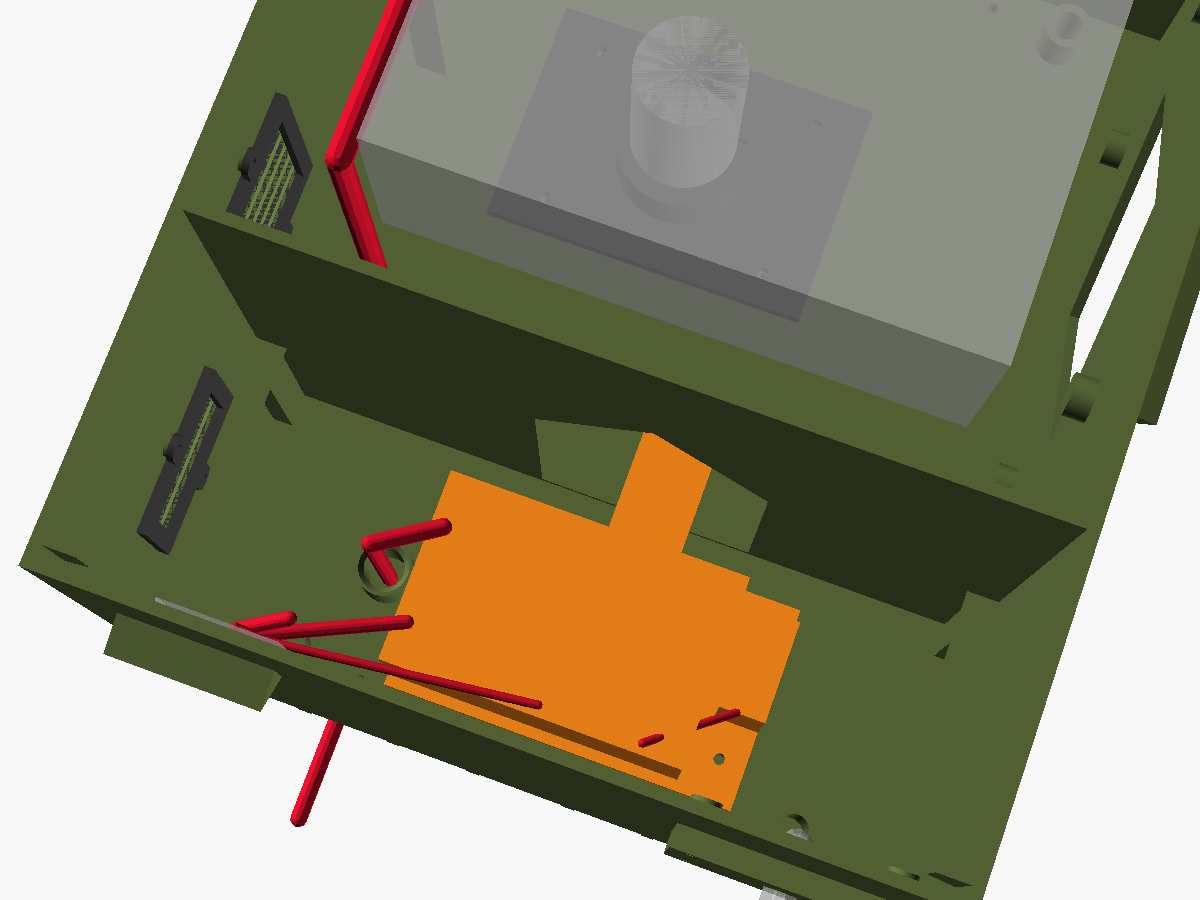
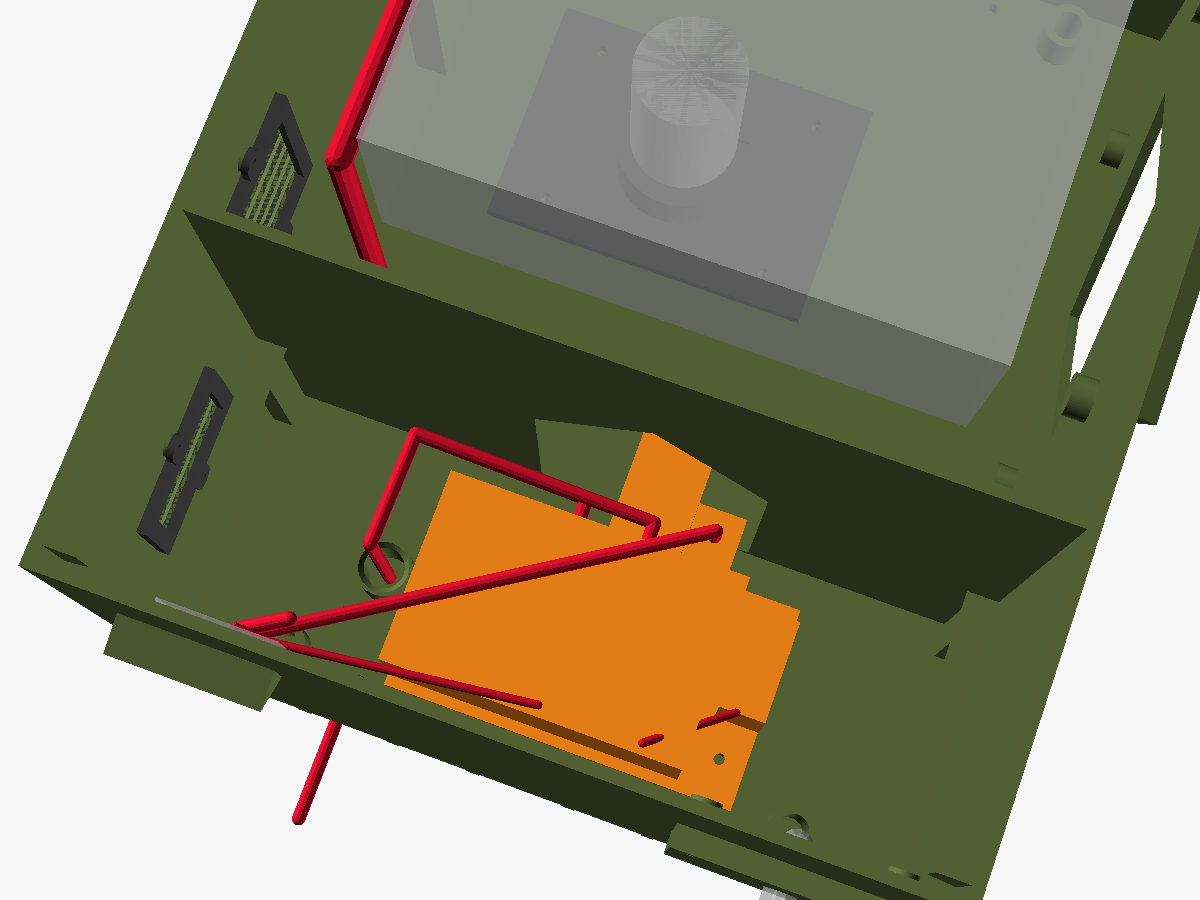
DigiAMP+ jack and speaker terminals face the divider: leg 2 via a right-angle adapter
From the Raspberry Pi product photo: the barrel jack and both terminal
blocks sit on the HAT's edge opposite the GPIO header, about 15 mm from
the divider. amp_dc_plug keep-out (a right-angle adapter turned up) with
ampdc-<sled> clash pairs; pi_wiring routes leg 2 and the speaker wire from
there. ASSEMBLY, WIRING, BOM (adapter quantity 2 from the 5-pack) and
DESIGN_LOG updated; step 10 re-rendered.

Claude-Session: https://claude.ai/code/session_01GgR7AcQnbC76E9Z5qosyiT

Changed region(s): [[0.2158, 0.4667, 0.6167, 0.7156], [0.2467, 0.84, 0.2775, 0.9022]]

diff --git a/CLAUDE.md b/CLAUDE.md
@@ -57,7 +57,7 @@ Print orientation is baked into the `part` dispatch at the bottom (lid flipped r
 - Materials (owner, 2026-10-15): ASA in camo green (Inland ASA Army Green) for everything seen from outside (`base` tiles, `lid` tiles, `hatch_cover`, `cord_clamp`, plus `fit_coupon`), black PETG (Inland PETG Black) for everything inside (`pedestal`, `window_frame`, `sled`, the three screen caps, `ir_holder`, `power_shelf`). No flame-retardant filament (owner, 2026-10-15). PLA only for prototypes. Black inside also cuts light glow. Print small critical pieces first (pedestal, window frame, hatch cover) before the big tiles. Orient so load runs within layers.
 - Prefer 45 deg gussets and slopes so nothing needs supports (ledges, hoods, louvers, the diamond hatch, the gabled pass-through). The base prints upright, so the floor stands on `foot_ribs` plus a rib under each side wall (`ribs_x`; bridges <= `max_bridge`, asserted) the floor holes (drains, chimney, stake bores) start `hole_skin` layers up so the floor's first bridge layer is solid (punched out after printing), and the window, which has to stay inside the pane, gets snap-out ribs with a `layer_h` gap; the pane rebate has a 45 deg ceiling. Anything new with a horizontal top edge over ~30 mm needs the same treatment.
 - Bed fit is asserted (`bed`, `fits_bed`): a parameter change that pushes a tile past the bed fails every export and check, with the tile's size in the message. The cord opening and clamp (`cord_x`, `cord_dz`: clamp inside the rear wall's left edge, opening inside the left wall, lower screws clear of the shelf, clamp under the lid skirt), `cord_d` against the opening and clamp channel, and the brick (clear of the PIR slot, no deeper than the shelf, under the lid skirt) are asserted too.
-- Keep interference checks green after any geometry change. If you add a part that mates with another, add a pair to `scripts/check_clash.sh`. Cables and plugs need keep-outs as well (`projector_ports`, `projector_side_ports`, `pi_hdmi_plug`): the script only sees what is modelled. The script measures the intersection volume, so parts that merely touch pass ("contact"); anything over 0.5 mm3 is a clash.
+- Keep interference checks green after any geometry change. If you add a part that mates with another, add a pair to `scripts/check_clash.sh`. Cables and plugs need keep-outs as well (`projector_ports`, `projector_side_ports`, `pi_hdmi_plug`, `amp_dc_plug`): the script only sees what is modelled. The script measures the intersection volume, so parts that merely touch pass ("contact"); anything over 0.5 mm3 is a clash.
 - `%` ghosts (projector, ball head) only show in preview, never in exports.
 - `docs/measurements.yaml` holds no defaults: `scripts/check_measurements.py` reads them from the SCAD by key or `param:`. Renaming a parameter means renaming its YAML key (or `param:`) too; run the script and check it still shows a model value.
 - `--camera` needs all seven numbers; `--viewall` produced tiny renders, so set the distance by hand.
@@ -84,7 +84,7 @@ Print orientation is baked into the `part` dispatch at the bottom (lid flipped r
 1. Projector: 165 x 130 x 66 mm. Depth is measured (calipers); width and height are the manual's 6.5 x 2.6 in. Lens height and offset (`lens_z` 33, `lens_x` -20) and the 1/4-20 socket position (`mount_x` 19, `mount_y` -4) are scaled off photos. Port and vent positions come from photos (about +/-2 mm; confirm with calipers): I/O strip on the right face, top 18 mm, 41-118 mm behind the front, HDMI at 56 mm (`hdmi_y`, `side_port_*`); DC jack in the rear top-right corner (`dc_jack`; barrel 5.5 x 2.5 mm per the owner, who also verified the DigiAMP+'s barrel jack is the same size, 2026-10-12); intake grille 40 x 40, 15 from the right and top, on the rear; exhaust slots on the right face, first 40 mm; IR receiver on the front face above the Tkisko logo near X +35, Z 50 (`ir_x`, `ir_z`). The second rear grille is a speaker, not an air path. Louver opening sizes (`air_margin*`, `exh_y`) are owner measurements.
 2. Projector power control is HDMI-CEC from the Pi (fallback: HDMI output off). The projector's EDID has been read on a Mac (2026-10-05, see `docs/BRINGUP.md` "Verified so far"): generic STK "S2-TEK TV" block, 1080p60 native, 8-bit, 150 MHz TMDS, DPMS standby flagged, HDMI vendor block with CEC physical address 2.0.0.0. That proves a real HDMI input, not CEC; whether the projector answers CEC is still unknown until bring-up row 9 on the Pi.
 3. The brick (Auplf XGM-2406, 24 V 6 A 144 W, 5.5 x 2.5 mm, ASIN B0H32DNLP3) is chosen (2026-10-12) but not bought: `brick` is the listing's 6.7 x 2.8 x 1.6 in, still to be calipered; the AC inlet type and input current are unknown; the listing claims FCC/CE/RoHS only (no UL/ETL) and mentions a cooling fan. The cord's jacket (`cord_d` 9) and connector size are guesses. The stock 21 V wall-wart is retired from the case.
-4. PIR dome diameter and hole spacing (`pir_dome_d` 23.5, `pir_hole_sp` 28.7) and whether the DigiAMP+'s unpopulated encoder/IR header pins (GPIO 17, 23-25, 27) really float; GPIO 22 is its mute line, so the IR LED sits on GPIO 16. The sled fan's heatsink height under the HAT, its noise and its effect (BRINGUP row 13a). Stack heights per sled (the DigiAMP+ brief gives no height; `pi_stack_h` 40, `pi5_stack_h` 50 with Active Cooler, `zero_stack_h` 30, `zero_hat_z` 13 are guesses), DigiAMP+ support and power on Pi 5 and Zero 2 W, and whether the projector runs on 24 V (row 4a).
+4. PIR dome diameter and hole spacing (`pir_dome_d` 23.5, `pir_hole_sp` 28.7) and whether the DigiAMP+'s unpopulated encoder/IR header pins (GPIO 17, 23-25, 27) really float; GPIO 22 is its mute line, so the IR LED sits on GPIO 16. The sled fan's heatsink height under the HAT, its noise and its effect (BRINGUP row 13a). Stack heights per sled (the DigiAMP+ brief gives no height; `pi_stack_h` 40, `pi5_stack_h` 50 with Active Cooler, `zero_stack_h` 30, `zero_hat_z` 13 are guesses; so is the DigiAMP+ jack's height, `amp_jack_dz` 8: its jack and speaker terminals face the divider, so leg 2 takes a right-angle adapter), DigiAMP+ support and power on Pi 5 and Zero 2 W, and whether the projector runs on 24 V (row 4a).
 5. Ball head: UTEBIT 20 mm chosen (2026-10-06); `ball_head_h` 52 and `pivot_h` 32 are scaled off the vendor drawing, so caliper the real head (platform height, ball centre, lock knob position). Throw ratio (0.95, derived from the manual's image sizes), lens offset (0), lens height, are all unmeasured; the port positions are photo-derived (item 1), and the HDMI cable's route to the divider at full aim and the LED seat in `ir_holder` are unchecked.
 6. Coupon (2026-10-15): every fit passes as modelled: the M5 keyhole and insert (`stud_insert_d` 6.4), the M3 insert (`m3_insert_d` 4.0), the 1/4-20 insert (`insert_d` 8.2), the M3/M2.5/M2 pilots, the pane slot and the hot-shoe T-slot (the UTEBIT adapter holds with its ring tight). Still untested: ASA shrink (the 118 mm strip's length is not entered yet), and the pane rebate in the real base (sized for a 3.5 x 5 in, about 2 mm frame-glazing pane; `pane_w`/`pane_h` drive the window). The hot-shoe receiver (`hot_shoe_cut()`, `shoe_*`, ISO 518 numbers) is now the pedestal's mount (`ped_mount` "shoe", 2026-10-15), replacing the stud and 1/4-20 insert; `ped_top` dropped 30 -> 25 to make room for the adapter ring (`shoe_rise` 5, a guess: caliper it), so the projector height is unchanged. Untested: the slot in PETG (the coupon was ASA) and the ring height.
 7. Base seam collars and screws, the lid scarf joint (needs `lid_front`) and the gasket land are unprinted. `cord_clamp`, `lid_rear` and `base_rear` are printed but not fitted together; the clamp and `base_rear` were printed before BRINGUP row 4 set `cord_d` (9, a guess) and the brick, so they need reprinting if those change.

diff --git a/docs/DESIGN_LOG.md b/docs/DESIGN_LOG.md
@@ -99,3 +99,4 @@ Chronological record of decisions, including dead ends, so the reasoning survive
 - **Pi sled fan (2026-10-15).** Running the setup outside the case on a warm day, the Pi tripped its over-temperature protection (owner), so the Pi gets its own fan; the case stays fanless. The DigiAMP+ sits over the SoC, so a fan on top of the HAT would barely reach the chip; the fan stands at the board's SD-card end instead and blows into the gap between the Pi and the HAT, over a stick-on heatsink. That end is the only free edge: HDMI and power are on one long edge, the GPIO header on the other, USB/LAN on the far end. A 30 x 30 x 10 mm axial fan fits on an upright plate inside the sled's existing footprint (plate at X -60, the sled's edge), with its centre 8 mm in front of the Pi's centre so the thumbscrew stays reachable. The plate is plain (no gussets: the fan screwed to it is the load, about 10 g), with a diamond intake so it prints standing without supports. Only the Pi 3 and Pi 4 sleds get it: the Pi 5 already has its Active Cooler, and on the Zero 2 W sled the board's centre lines up with the thumbscrew. Control is the kernel's `gpio-fan` overlay (GPIO 26, pin 37, through a BC337 because a 0.2 A fan is far past a GPIO's 16 mA; 1N5819 across the fan), not the service, so it keeps running if the service crashes; the service only reports its state. GPIO 26 is free on the DigiAMP+ and not on its encoder/IR headers. On/off rather than PWM keeps PWM0 free for `pwm-ir-tx`. Chosen fan has no LED, so nothing glows through the Pi vent at night. Open: heatsink height under the HAT, whether the fan is quiet enough, and whether one Pi-zone louver lets the fan's heat out (BRINGUP rows 13a and 20). Also fixed in passing: `tools/gen-default.mjs` still looked for the old "Fixed" group, so the file-only header in `videofx.default` was lost on regeneration.
 - **Slicing script; base and lid tiles at 0.30 DRAFT (2026-10-21).** `make slice` (`scripts/slice.sh`, with `scripts/prusa_profile.py` flattening the stock presets so any PrusaSlicer runs it) replaces the hand-run CLI recipe. Re-sliced with the ASA tile settings from the first `base` print, `base_front` came to 51 h and the whole set to 108 h, with Halloween ten days out, so the owner moved both base tiles to 0.30mm DRAFT (`layer_h` 0.3, the gap over the window's snap-out ribs): `base_front` 35 h 44 m, `base_rear` 15 h 56 m, about 84 h in all. The lid tiles followed (owner, same day): `lid_front` 9 h 57 m, `lid_rear` 6 h 1 m, about 80 h in all; small parts stay at 0.20 SPEED. Risk: coarser layers on the window rebate's 45 deg ceiling, the louver slopes and the lid's 45 deg scarf seam; the walls stay solid (7 perimeters).
 - **PIR hood raised (v0.14, 2026-10-21).** Modelling the PIR for the assembly pictures (`pir_sensor()`, a new `pir` pair in `check_clash.sh`) showed the hood's 45 deg underside started about 6 mm below the top of the dome, and the dome hole stopped 1 mm into the hood: a dome standing proud of the wall could not pass through. The hood now starts 1 mm above the dome (`pir_dome_d/2 + hood_d + 1` over the dome centre, about 7 mm higher) and an assert keeps it under the lid skirt. Only `base_rear` changes; the copy already printed has the old hood, so reprint it (it was due a reprint with `slicer/asa_tiles.ini` anyway) or file the hood's underside back. `pir_dome_h` (9, the dome radius less the wall) and `pir_board` are guesses for the ghost and the check.
+- **DigiAMP+ jack faces the divider (2026-10-21).** The Raspberry Pi product photo (owner) puts the DigiAMP+'s barrel jack (about 13 mm from the pin-1 end, `amp_jack_x`) and both speaker terminal blocks (`amp_spk_x`) on the HAT's edge opposite the GPIO header, which in this case faces the divider about 15 mm away. A straight barrel plug with its strain relief is about 35 mm, so it would stand out through the pass-through into the rear gap; leg 2 takes a right-angle adapter turned up instead (a second one from the 5-pack already ordered), with an `amp_dc_plug` keep-out and `ampdc-<sled>` pairs in `check_clash.sh` (clear of the divider, HDMI plug, fan, shelf and the projector at full tilt on every sled). The jack's height under the stack top (`amp_jack_dz` 8) is a guess. The speaker wire runs from those terminals round the Pi's USB end to the chimney.

diff --git a/docs/BOM.md b/docs/BOM.md
@@ -42,7 +42,7 @@ Amazon cart placed or about to be: 12 SKUs, $145.32 with tax (checkout PDF). Row
 | Buck converter to 21 V, at least 3.5 A out, 30 V in or more | 0-1 | Only if BRINGUP row 4a fails (the projector cannot take 24 V). Meter its output before it meets the projector | Not chosen; pick after the test |
 | 2 mm foam gasket for the cord clamp | 1 | Same foam tape as the lid rim | See the foam tape row |
 | M3 x 16 self-tapping | 4 | Cord clamp into its bosses: the stack is 6 (clamp) + 2 (foam) + 3 (wall) = 11 mm to the inner wall face, plus the 5 mm boss, and the pilot ends at the boss end, so about 5 mm engages. Boss depth caps engagement at 5 mm; if BRINGUP row 17a fails, raise `cord_boss` once the real brick is measured | Same Mikniri assortment as the pedestal (check it has 16 mm; otherwise buy M3 x 16 separately) |
-| Right-angle DC barrel adapter, 5.5 x 2.5 mm male to 5.5 x 2.5 mm female | 1 | The projector's jack is 5.5 mm OD x 2.5 mm ID (owner, 2026-10-06), so the stock plug is the same size. The male end goes into the jack (stands out about 15 mm, `port_depth`) and the stock plug or its stub goes into the elbow's female end, so the stock cable's 45 mm bend runs along the rear face. A straight plug would need about 45 mm behind the rear face, which the rear tile can't take. Do not use the 2.1 mm variants **Ordered** (5-pack, $8.99). | [Amazon: GINTOOYUN 5.5 x 2.5 mm male-to-female, 5-pack](https://www.amazon.com/dp/B0BQGM4NBS) |
+| Right-angle DC barrel adapter, 5.5 x 2.5 mm male to 5.5 x 2.5 mm female | 2 (one 5-pack) | One for the DigiAMP+: its jack faces the divider about 15 mm away, so leg 2 goes in turned up (`amp_dc_plug`). The projector's jack is 5.5 mm OD x 2.5 mm ID (owner, 2026-10-06), so the stock plug is the same size. The male end goes into the jack (stands out about 15 mm, `port_depth`) and the stock plug or its stub goes into the elbow's female end, so the stock cable's 45 mm bend runs along the rear face. A straight plug would need about 45 mm behind the rear face, which the rear tile can't take. Do not use the 2.1 mm variants **Ordered** (5-pack, $8.99). | [Amazon: GINTOOYUN 5.5 x 2.5 mm male-to-female, 5-pack](https://www.amazon.com/dp/B0BQGM4NBS) |
 | Velcro strap, 20 mm | 1-2 | Through the shelf slots, round the brick | [Micro Center: VELCRO One-Wrap roll, 3/4 in x 4 ft](https://www.microcenter.com/product/657584/velcro-90302-one-wrap-roll-4%e2%80%99-x-075-black-%281-roll%29?storeid=195) |
 | Wire: 18 AWG (relay fallback only), 24 AWG | a few metres | | Micro Center: [18 AWG hook-up, 25 ft](https://www.microcenter.com/product/689131/leo-sales-ltd-hook-up-wire-300vhu-18-gauge-ul1007-copper-25ft?storeid=195), [22 AWG stranded, 25 ft](https://www.microcenter.com/product/689133/leo-sales-ltd-wire-stranded-22-gauge-300v-orange-25-ft?storeid=195). Amazon: [20 AWG silicone kit](https://www.amazon.com/dp/B073RDG2J6), [24 AWG silicone kit](https://www.amazon.com/dp/B073RD76QD) |
 | 16 AWG speaker wire | to suit | | [Amazon: Amazon Basics 16 AWG, 50 ft](https://www.amazon.com/dp/B006LW0WDQ) (Micro Center sells 16 AWG only by the 500 ft spool) |

diff --git a/docs/ASSEMBLY.md b/docs/ASSEMBLY.md
@@ -92,7 +92,7 @@ Note: the shipped provisional brick layout cannot be assembled (the brick sits a
 
 ![Pi sled, HAT and fan with the Pi-zone wiring (red); shelf and brick left out](assembly/step-10.png)
 
-Red is the wiring, as routed below: HDMI forward through the divider, across the rear gap and up the right side gap to the projector; leg 2 and the PIR leads down the shelf's wire slot to the HAT; the fan lead; speaker wire down the chimney. The DigiAMP+'s jack and terminals are drawn at the USB end by guess.
+Red is the wiring, as routed below: HDMI forward through the divider, across the rear gap and up the right side gap to the projector; leg 2 and the PIR leads down the shelf's wire slot to the HAT; the fan lead; speaker wire down the chimney. The DigiAMP+'s barrel jack and speaker terminals are on its edge facing the divider (from the product photo), so leg 2 goes in through a right-angle adapter.
 
 1. Mount the Pi on its sled (4x M2.5).
 2. On a Pi 3 or 4, stick the heatsink on the SoC, then screw the fan to the sled's upright plate (4x M2.5 x 16, nuts on the fan side), label facing the Pi so it blows into the gap under the HAT.
@@ -100,8 +100,8 @@ Red is the wiring, as routed below: HDMI forward through the divider, across the
 4. Plug the GPIO leads (PIR, the fan's switch, and the relay and IR LED only if built) into the DigiAMP+'s pass-through header per [pi/docs/wiring.md](../pi/docs/wiring.md).
 5. Set the sled on its pins and fit the thumbscrew.
 6. Plug the HDMI cable into the Pi straight through the low part of the divider pass-through (there is no room for the plug behind the divider). Route the cable from there along the side gap above the baffle to the right-face I/O strip, and check BRINGUP row 21 (the cable crossing the rear gap at full tilt and pan).
-7. Plug the Y-splitter's leg 2 into the DigiAMP+'s barrel jack.
-8. Feed the speaker wire down the chimney and plug the chimney round the wires with foam.
+7. Put a right-angle adapter (a second one from the 5-pack) in the DigiAMP+'s barrel jack, turned up: the jack faces the divider about 15 mm away, inside the pass-through. Plug the Y-splitter's leg 2 into it.
+8. Screw the speaker wire into the two terminal blocks on the same edge, run it round the USB end of the Pi, feed it down the chimney and plug the chimney round the wires with foam.
 
 ## 11. First power-up
 

diff --git a/docs/WIRING.md b/docs/WIRING.md
@@ -81,7 +81,7 @@ The DigiAMP+ powers the Pi, so never also power the Pi by USB. The relay is only
 |---|---|---|
 | Brick DC cord into the Y-splitter | the cord's own | Plug-in; the cord is not cut. Tip must read centre + |
 | Y-splitter leg 1 to the projector | the splitter's own | **14 AWG leads (the chosen splitter), well above the supply's 6 A, so no fuse.** Ends in the right-angle 5.5 x 2.5 mm adapter on the projector's DC jack so the stock cable's bend runs along the rear face. **Do not connect it until row 4a passes.** If row 4a fails, a buck converter to 21 V goes between the splitter and the adapter on this leg only (at least 3.5 A out at 21 V, 30 V in or more; meter its output before it meets the projector) |
-| Y-splitter leg 2 to the DigiAMP+ | the splitter's own | Into the DigiAMP+'s 5.5 x 2.5 mm centre-positive barrel jack. 24 V is its stated ceiling |
+| Y-splitter leg 2 to the DigiAMP+ | the splitter's own | Into the DigiAMP+'s 5.5 x 2.5 mm centre-positive barrel jack through a right-angle adapter turned up: the jack is on the HAT's edge facing the divider, about 15 mm away (`amp_dc_plug`). 24 V is its stated ceiling |
 | Relay (CEC fallback only) | 18 AWG | Cut leg 1 a hand's width from the adapter and switch the **+** conductor only. Never switch the minus: the HDMI cable would carry the return. Use an **active-low** module: the Pi holds GPIO 27 high (relay open, projector off) from boot |
 | DigiAMP+ to speakers | 16 AWG zip cord | Out through the floor chimney; red/striped to + on both ends |
 
